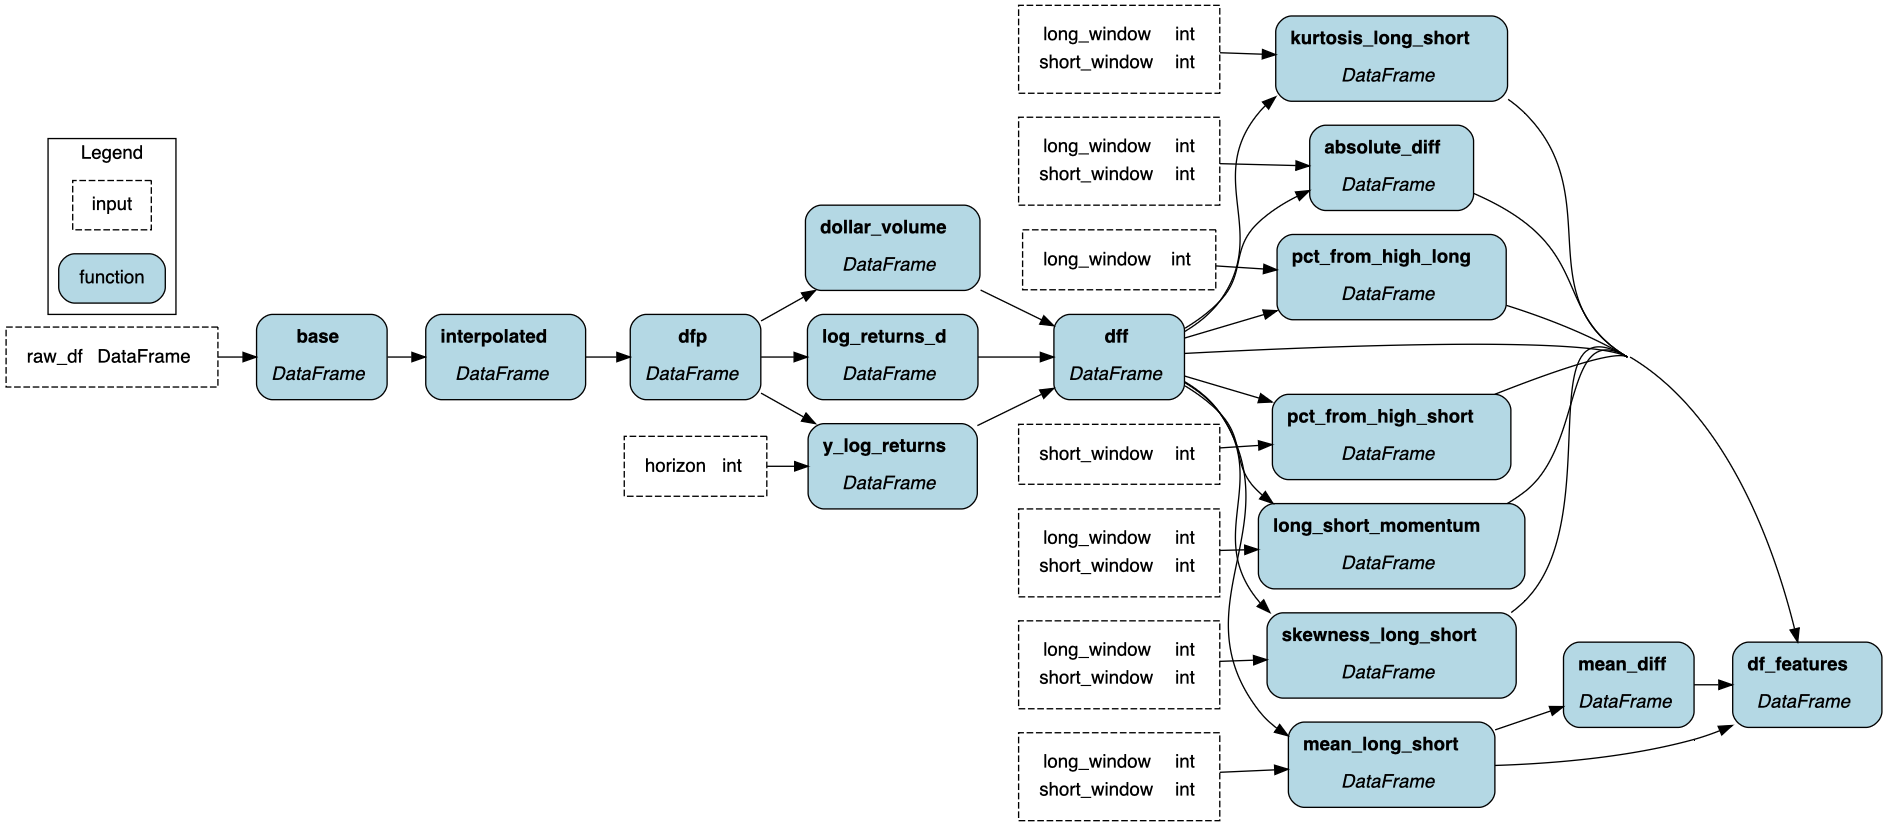
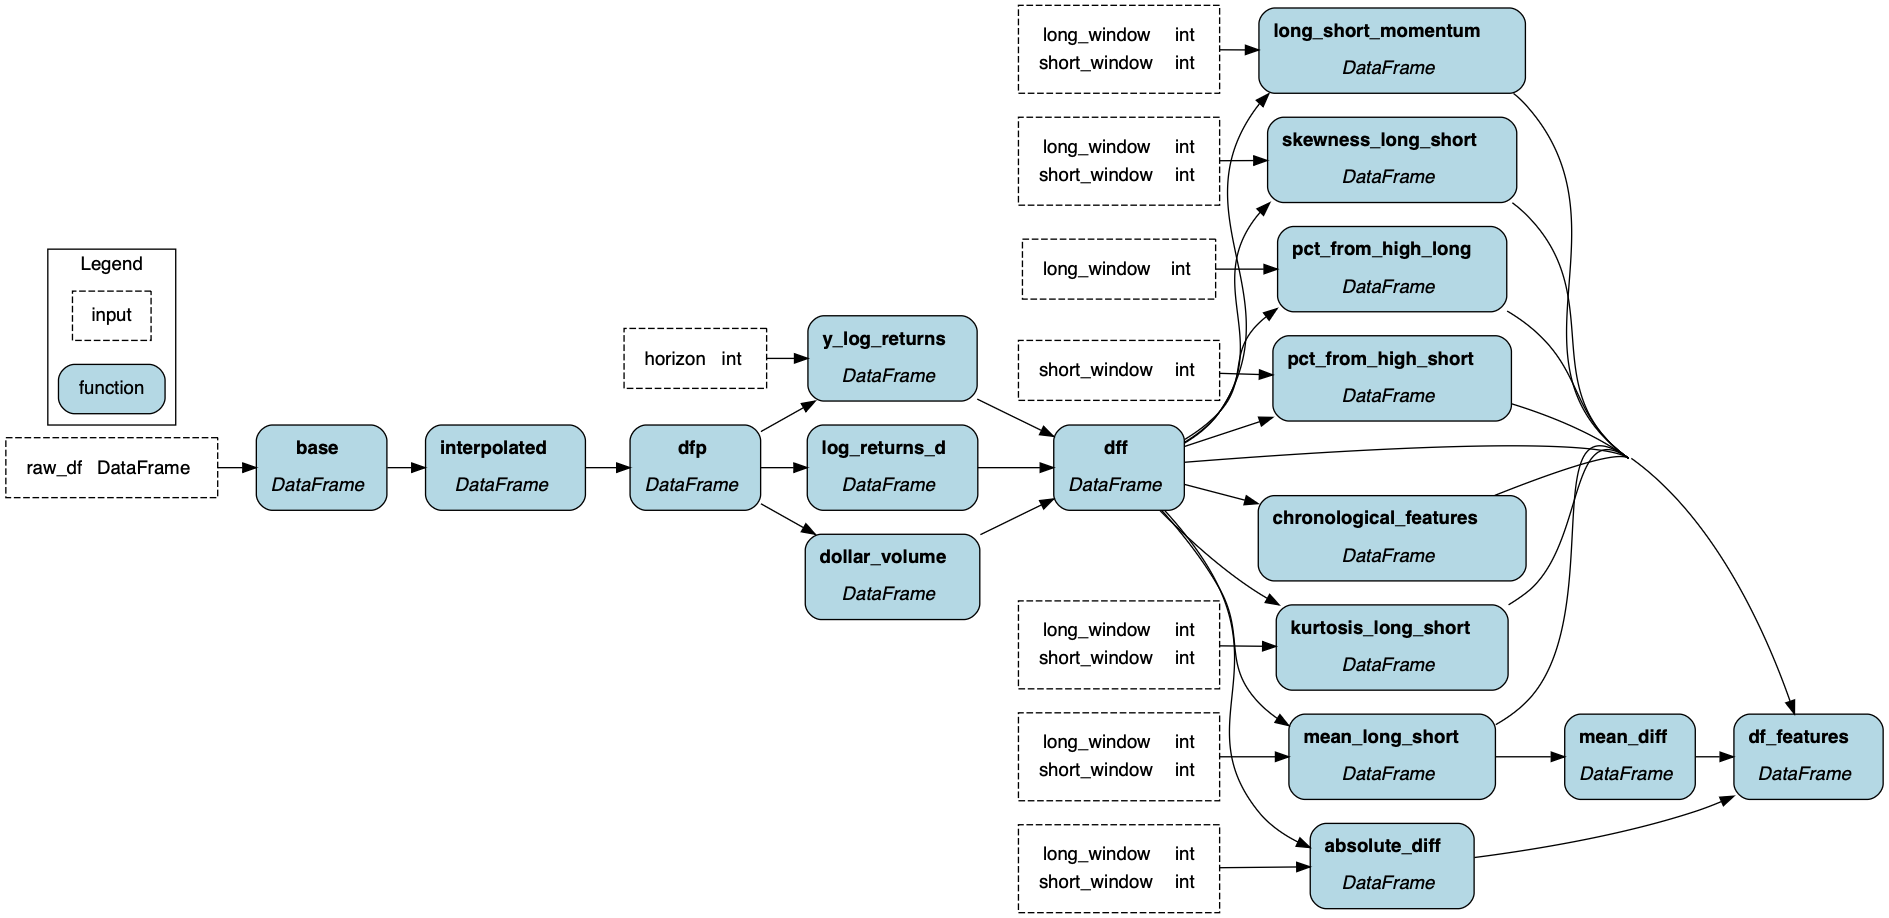
added chronological features

Changed region(s): [[0.0, 0.0, 1.0, 0.9988]]

diff --git a/src/stock_market_analytics/feature_engineering/features.py b/src/stock_market_analytics/feature_engineering/features.py
@@ -74,6 +74,17 @@ def pct_from_high_short(dff: pl.DataFrame, short_window: int) -> pl.DataFrame:
         .alias("pct_from_high_short")
     )
 
+def chronological_features(dff: pl.DataFrame) -> pl.DataFrame:
+    """
+    Extract chronological features from the date column.
+    """
+    return dff.with_columns(
+        pl.col("date").dt.year().alias("year"),
+        pl.col("date").dt.month().alias("month"),
+        pl.col("date").dt.weekday().alias("day_of_week"),
+        pl.col("date").dt.ordinal_day().alias("day_of_year")
+    )
+
 def df_features(
     dff: pl.DataFrame,
     kurtosis_long_short: pl.DataFrame,
@@ -83,7 +94,8 @@ def df_features(
     absolute_diff: pl.DataFrame,
     long_short_momentum: pl.DataFrame,
     pct_from_high_long: pl.DataFrame,
-    pct_from_high_short: pl.DataFrame
+    pct_from_high_short: pl.DataFrame,
+    chronological_features: pl.DataFrame
 ) -> pl.DataFrame:
 
     """
@@ -144,6 +156,15 @@ def df_features(
         pl.col('pct_from_high_short')
     )
 
+    chronological_features = chronological_features.select(
+        pl.col('symbol'),
+        pl.col('date'),
+        pl.col('year'),
+        pl.col('month'),
+        pl.col('day_of_week'),
+        pl.col('day_of_year')
+    )
+
     final_df = dff.join(
         kurtosis_long_short,
         on=['symbol', 'date'],
@@ -174,6 +195,10 @@ def df_features(
         how='inner'
     ).join(
         pct_from_high_short,
+        on=['symbol', 'date'],
+        how='inner'
+    ).join(
+        chronological_features,
         on=['symbol', 'date'],
         how='inner'
     )
